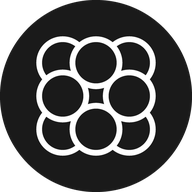
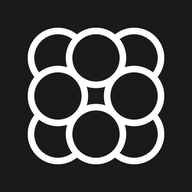
塗れることを見せるデモ（初回のみ）、ファビコンを角まで黒の正方形に
Claude-Session: https://claude.ai/code/session_01NdFvgQzGA9WqjMN2Xb2Z23

diff --git a/index.html b/index.html
@@ -11,11 +11,11 @@ else if(s)localStorage.removeItem("mixdot_theme")}catch(e){}})();
 </script>
 <title>MIXDOT｜クリエイティブディレクション・デザイン・Web制作</title>
 <meta name="description" content="アイデアを探求し、表現を設計するクリエイティブカンパニーです。">
-<link rel="icon" href="/favicon.ico?v=2" sizes="48x48">
-<link rel="icon" type="image/png" sizes="32x32" href="/favicon-32x32.png?v=2">
-<link rel="icon" type="image/png" sizes="16x16" href="/favicon-16x16.png?v=2">
-<link rel="icon" type="image/png" sizes="512x512" href="/icon-512.png?v=2">
-<link rel="apple-touch-icon" sizes="180x180" href="/apple-touch-icon.png?v=2">
+<link rel="icon" href="/favicon.ico?v=3" sizes="48x48">
+<link rel="icon" type="image/png" sizes="32x32" href="/favicon-32x32.png?v=3">
+<link rel="icon" type="image/png" sizes="16x16" href="/favicon-16x16.png?v=3">
+<link rel="icon" type="image/png" sizes="512x512" href="/icon-512.png?v=3">
+<link rel="apple-touch-icon" sizes="180x180" href="/apple-touch-icon.png?v=3">
 <link rel="manifest" href="/site.webmanifest?v=2">
 <meta name="application-name" content="MIXDOT">
 <meta name="apple-mobile-web-app-title" content="MIXDOT">
@@ -444,6 +444,12 @@ html.nogap .thanks>*+*{margin-top:14px}
 @media (orientation:landscape) and (min-width:800px){html.land{--lm:max(24px,calc(var(--vh0,360px)*.095))}html.land .hero{gap:9vw}html.land .hero .words{--pd:max(16px,calc(var(--sym)*.088),1.9vw);--pg:max(calc(var(--sym)*.03),.5vw)}html.land .hero .concept{font-size:max(14px,calc(var(--sym)*.095),1.9vw)}}
 html.small .nav{padding-bottom:calc(var(--gutter) + 23px)}
 html,body,button,a,.maker,.tools,.dots,.gather,#box{-ms-touch-action:manipulation;touch-action:manipulation}   /* ボタン周りを素早く2回タップしても、画面が拡大しない（ピンチの拡大は今まで通り） */
+
+/* 塗れることを見せる：実際に円が塗られて、すぐ戻る＋ひとこと */
+.maker{position:relative}
+.paint-hint{position:absolute;left:0;right:0;top:-30px;text-align:center;font-size:12px;letter-spacing:.12em;color:var(--ink-soft);opacity:0;-webkit-transition:opacity .4s;transition:opacity .4s;pointer-events:none;white-space:nowrap}
+.paint-hint.on{opacity:1}
+.paint-hint{display:none}
 </style>
 </head>
 <body id="top">
@@ -843,11 +849,27 @@ html,body,button,a,.maker,.tools,.dots,.gather,#box{-ms-touch-action:manipulatio
   })();
 
   // ── 集まったあとの遊び：色を選んで、円を押す ──
+  // 実際に塗る動きを、ほんの少し見せる（まだ何も塗ってない時だけ。見せたら元に戻す）
+  var demoT=[],demoCells=[],demoCol=null,hintEl=document.createElement("div");hintEl.className="paint-hint";hintEl.setAttribute("aria-hidden","true");maker.appendChild(hintEl);
+  var hasPainted=false;try{hasPainted=localStorage.getItem("mixdot_painted")==="1"}catch(e){}   // 一度でも自分で塗ったことがある人には、見せない
+  function markPainted(){if(hasPainted)return;hasPainted=true;try{localStorage.setItem("mixdot_painted","1")}catch(e){}}
+  function demoPaint(count){
+    if(hasPainted||p<1||vPhase==="run"||state.some(function(v){return v!==NONE}))return;
+    demoT.forEach(clearTimeout);demoT=[];
+    var order=[6,4,5,7].slice(0,count||4),col=colors[picked][1];demoCells=order;demoCol=col;
+    hintEl.classList.add("on");
+    order.forEach(function(n,k){demoT.push(setTimeout(function(){state[n]=col;draw()},300+k*420))});
+    var end=300+order.length*420+900;
+    demoT.push(setTimeout(function(){revertDemo();hintEl.classList.remove("on")},end));
+  }
+  function revertDemo(){var ch=false;demoCells.forEach(function(n){if(state[n]===demoCol){state[n]=NONE;ch=true}});demoCells=[];if(ch)draw()}
+  window.__demoPaint=demoPaint;
+  window.__demoStop=function(){demoT.forEach(clearTimeout);demoT=[];revertDemo();hintEl.classList.remove("on")};
   colors.forEach(function(col,i){
     var b=document.createElement("button");
     b.type="button";b.style.background=col[1];b.title=col[0];b.setAttribute("aria-label","色："+col[0]);
     b.setAttribute("aria-pressed",i===picked);
-    b.addEventListener("click",function(){picked=i;swatches.forEach(function(x,n){x.setAttribute("aria-pressed",n===i)})});
+    b.addEventListener("click",function(){picked=i;swatches.forEach(function(x,n){x.setAttribute("aria-pressed",n===i)});window.__demoPaint&&window.__demoPaint(2)});
     if(i===SPI)b.className="sp-only";
     dots.appendChild(b);swatches.push(b);
   });
@@ -855,7 +877,8 @@ html,body,button,a,.maker,.tools,.dots,.gather,#box{-ms-touch-action:manipulatio
   cells.forEach(function(c,n){
     function fill(){
       if(p<1)return;
-      state[n]=(state[n]===colors[picked][1])?NONE:colors[picked][1];draw();keep();
+      if(demoCells.length)window.__demoStop();
+      state[n]=(state[n]===colors[picked][1])?NONE:colors[picked][1];markPainted();draw();keep();
     }
     c.addEventListener("click",fill);
     // 乗せると、選んでいる色がうっすら見える（押す前の予告）
@@ -1106,6 +1129,16 @@ html,body,button,a,.maker,.tools,.dots,.gather,#box{-ms-touch-action:manipulatio
     });
   });
 })();
+
+  // ── はじめて触る人へのヒント：数秒操作がなければ、実際に円が塗られる様子を見せる ──
+  (function(){
+    var n=0,touched=false,t,mk=document.getElementById("maker"),waited=0;
+    function stop(){touched=true;clearTimeout(t);window.__demoStop&&window.__demoStop()}
+    var area=[document.getElementById("stage"),mk];   // 触れて止めるのは、シンボルとパレット。ページをスクロールしただけでは止めない
+    ["touchstart","mousedown"].forEach(function(e){area.forEach(function(a){if(a)a.addEventListener(e,stop,{passive:true})})});document.addEventListener("keydown",stop);
+    function play(){if(touched||n>=2)return;window.__demoPaint&&window.__demoPaint(4);n++;t=setTimeout(play,6500)}
+    var w=setInterval(function(){waited+=400;if((mk&&mk.classList.contains("show"))||(mk&&mk.classList.contains("is-ready")&&waited>4500)||waited>7000){clearInterval(w);t=setTimeout(play,3000)}},400);
+  })();
 </script>
 </body>
 </html>
